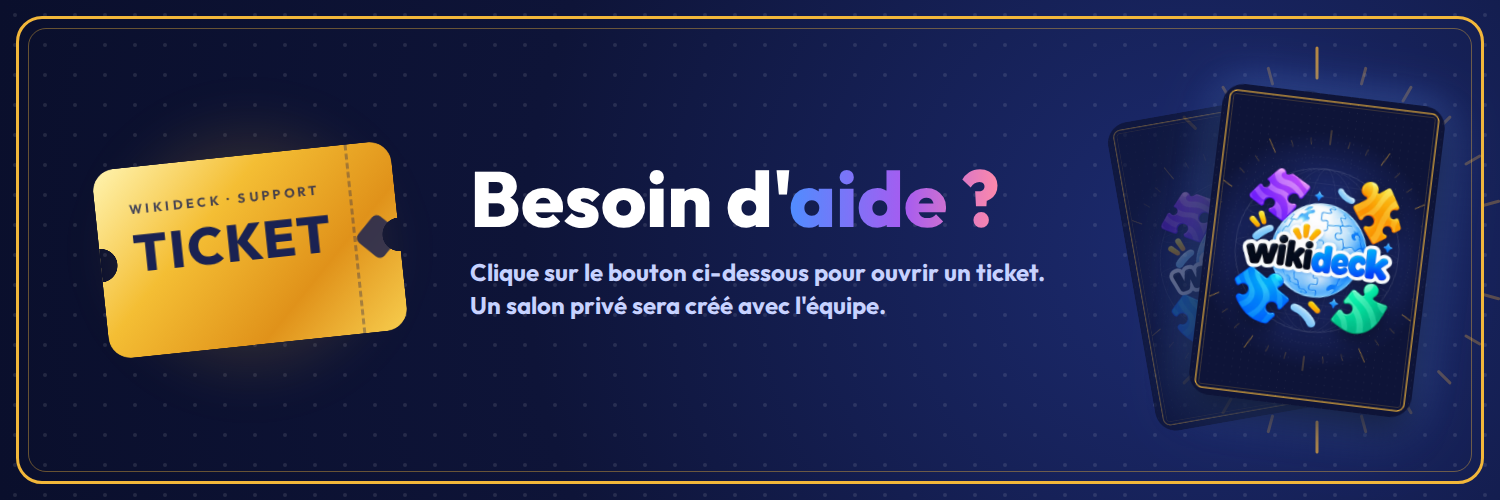
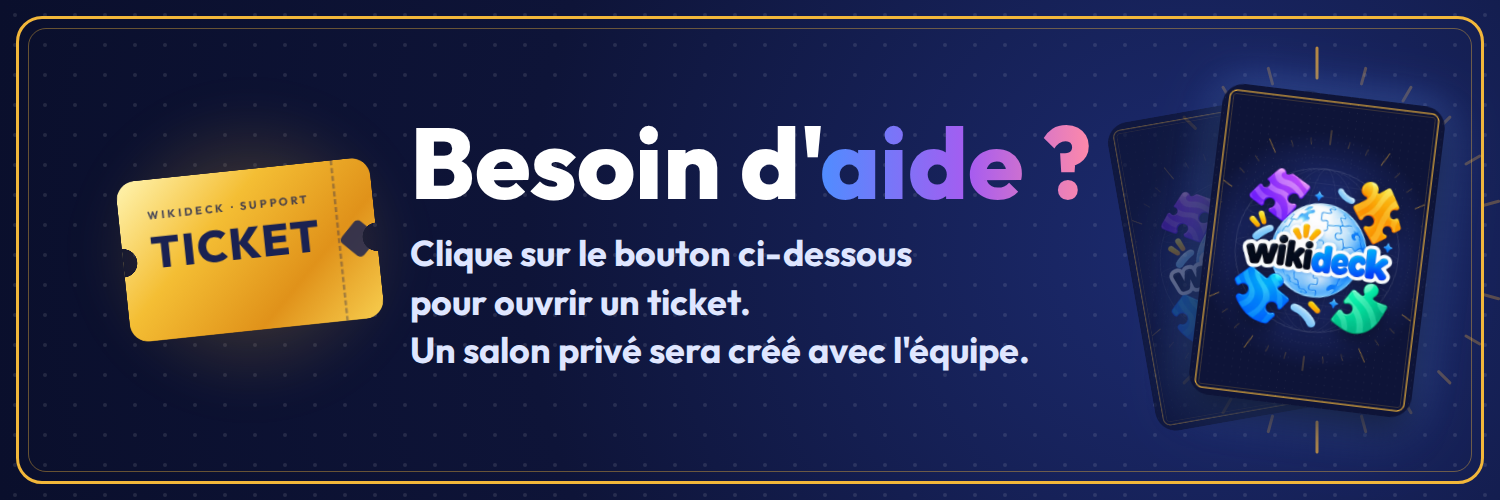
commit to wikideck github

Changed region(s): [[0.0613, 0.24, 0.736, 0.72], [0.276, 0.66, 0.7053, 0.75]]

diff --git a/Source/Helper/ticket.js b/Source/Helper/ticket.js
@@ -1,4 +1,6 @@
 const path = require('node:path');
+const db = require('./database.js');
+const { t } = require('./i18n.js');
 const {
 	ActionRowBuilder,
 	AttachmentBuilder,
@@ -10,16 +12,17 @@ const {
 	PermissionFlagsBits,
 } = require('discord.js');
 
-// Les customId sont préfixés par "ticket:" pour que l'event sache quelles interactions le concernent
+
 const TICKET_OPEN_ID = 'ticket:open';
 const TICKET_CLOSE_ID = 'ticket:close';
 const TICKET_REPORT_ID = 'ticket:report';
+let TICKET_NUMBER_ID = db.prepare('SELECT * FROM ticket ORDER BY id DESC LIMIT 1').get()?.id ?? 0;
 const CLOSE_DELAY_MS = 5000;
 const MAX_TRANSCRIPT_MESSAGES = 1000;
 const TICKET_BANNER_PATH = path.join(__dirname, '..', 'Assets', 'ticket-banner.png');
 
 function buildPanel() {
-	// Discord ne peut pas lire un chemin local : on joint le fichier et on le référence via attachment://
+
 	const banner = new AttachmentBuilder(TICKET_BANNER_PATH, { name: 'ticket-banner.png' });
 	const embed = new EmbedBuilder()
 		.setColor(0x5865F2)
@@ -31,37 +34,43 @@ function buildPanel() {
 	return { embeds: [embed], components: [row], files: [banner] };
 }
 
-// Le topic du salon stocke le type et l'ID du créateur : il sert à retrouver le propriétaire sans base de données
+
 function ticketTopic(kind, userId) {
 	return `ticket:${kind}:${userId}`;
 }
 
-// Extrait { kind, userId } d'un topic de salon, ou null si ce n'est pas un salon de ticket
+function getLocale(userId) {
+	const user = db.prepare('SELECT * FROM User WHERE user_id = ?').get(userId);
+	return user?.locale ?? 'fr';
+}
+
+
 function parseTicketTopic(topic) {
 	const match = /^ticket:(open|report):(\d+)$/.exec(topic ?? '');
 	if (!match) return null;
 	return { kind: match[1], userId: match[2] };
 }
 
-// Config commune à "Ouvrir un ticket" et "Rapporter un Bug" : seuls la catégorie, le préfixe et le message changent
+
 const TICKET_KINDS = {
 	open: {
 		envVar: 'TICKET_CATEGORY_ID',
 		namePrefix: 'ticket',
-		description: 'Décris ton problème, l\'équipe te répondra bientôt.',
+		descriptionKey: 'ticket.openedDescription',
 	},
 	report: {
 		envVar: 'TICKET_REPORT_CATEGORY_ID',
 		namePrefix: 'report',
-		description: 'Décris le bug rencontré (étapes, capture d\'écran...), l\'équipe y jettera un oeil bientôt.',
+		descriptionKey: 'ticket.reportedDescription',
 	},
 };
 
 async function createTicket(interaction, kind) {
 	await interaction.deferReply({ flags: MessageFlags.Ephemeral });
 
-	const { envVar, namePrefix, description } = TICKET_KINDS[kind];
+	const { envVar, namePrefix, descriptionKey } = TICKET_KINDS[kind];
 	const { guild, user } = interaction;
+	const locale = getLocale(user.id);
 	const categoryId = process.env[envVar];
 	if (!categoryId) {
 		await interaction.editReply(`${envVar} n'est pas défini dans le fichier .env.`);
@@ -70,12 +79,12 @@ async function createTicket(interaction, kind) {
 
 	const existing = guild.channels.cache.find((c) => c.parentId === categoryId && c.topic === ticketTopic(kind, user.id));
 	if (existing) {
-		await interaction.editReply(`Tu as déjà un ticket ouvert : ${existing}`);
+		await interaction.editReply(t('ticket.alreadyOpen', locale, { channel: existing }));
 		return;
 	}
 
 	const channel = await guild.channels.create({
-		name: `${namePrefix}-${user.username}`,
+		name: `${namePrefix}-${user.username}-${TICKET_NUMBER_ID++}`,
 		type: ChannelType.GuildText,
 		parent: categoryId,
 		topic: ticketTopic(kind, user.id),
@@ -93,15 +102,16 @@ async function createTicket(interaction, kind) {
 	});
 
 	const row = new ActionRowBuilder().addComponents(
-		new ButtonBuilder().setCustomId(TICKET_CLOSE_ID).setLabel('Fermer le ticket').setEmoji('🔒').setStyle(ButtonStyle.Danger),
+		new ButtonBuilder().setCustomId(TICKET_CLOSE_ID).setLabel(t('ticket.close', locale)).setEmoji('🔒').setStyle(ButtonStyle.Danger),
 	);
 	await channel.send({
 		content: `${user}`,
-		embeds: [new EmbedBuilder().setColor(0x5865F2).setDescription(description)],
+		embeds: [new EmbedBuilder().setColor(0x5865F2).setDescription(t(descriptionKey, locale))],
 		components: [row],
 	});
 
-	await interaction.editReply(`Ton ticket a été créé : ${channel}`);
+	await interaction.editReply(t('ticket.created', locale, { channel }));
+	db.prepare('INSERT INTO ticket (name, kind, user_id) VALUES (?, ?, ?)').run(channel.name, kind, user.id);
 }
 
 async function openTicket(interaction) {
@@ -136,7 +146,7 @@ async function closeTicket(interaction) {
 	const isOwner = parseTicketTopic(channel.topic)?.userId === user.id;
 	const isStaff = memberPermissions.has(PermissionFlagsBits.ManageChannels);
 	if (!isOwner && !isStaff) {
-		await interaction.reply({ content: 'Tu ne peux pas fermer ce ticket.', flags: MessageFlags.Ephemeral });
+		await interaction.reply({ content: t('ticket.cannotClose', getLocale(user.id)), flags: MessageFlags.Ephemeral });
 		return;
 	}
 
@@ -151,11 +161,12 @@ async function closeTicket(interaction) {
 			await transcriptChannel.send({ content: `Transcript de **${channel.name}** (fermé par ${user.tag})`, files: [file] });
 		}
 	}
-
+	
 	await interaction.editReply(`Ticket fermé, ce salon sera supprimé dans ${CLOSE_DELAY_MS / 1000} secondes.`);
 	setTimeout(() => {
 		channel.delete('Ticket fermé').catch((error) => console.error('[ERROR] Suppression du ticket impossible :', error));
 	}, CLOSE_DELAY_MS);
+	db.prepare('UPDATE ticket SET isClosed = TRUE WHERE name = ?').run(channel.name);
 }
 
 module.exports = { TICKET_OPEN_ID, TICKET_CLOSE_ID, TICKET_REPORT_ID, buildPanel, openTicket, reportTicket, closeTicket };

diff --git a/index.js b/index.js
@@ -1,18 +1,14 @@
-// Require the necessary discord.js classes
+
 const fs = require('node:fs');
 const path = require('node:path');
 const { Client, Events, GatewayIntentBits, Collection, MessageFlags } = require('discord.js');
 const { DISCORD_TOKEN: token } = require('dotenv').config().parsed;
 const { getCommandFiles } = require('./Source/Helper/loadCommands');
 
-// Create a new client instance
-// GuildMembers est nécessaire pour recevoir l'évènement GuildMemberAdd (message de bienvenue).
-// Pensez à activer l'intent privilégié "Server Members Intent" sur le portail développeur Discord.
+
 const client = new Client({ intents: [GatewayIntentBits.Guilds, GatewayIntentBits.GuildMembers] });
 
-// When the client is ready, run this code (only once).
-// The distinction between `client: Client<boolean>` and `readyClient: Client<true>` is important for TypeScript developers.
-// It makes some properties non-nullable.
+
 client.once(Events.ClientReady, (readyClient) => {
 	console.log(`Ready! Logged in as ${readyClient.user.tag}`);
     client.commands = new Collection(); 
@@ -52,9 +48,7 @@ client.on(Events.InteractionCreate, async (interaction) => {
 		await command.execute(interaction);
 	} catch (error) {
 		console.error(error);
-		// Cette réponse de secours peut elle-même échouer (ex: interaction expirée).
-		// On l'isole dans son propre try/catch pour ne jamais laisser une erreur
-		// Discord non gérée remonter et planter tout le bot.
+
 		try {
 			if (interaction.replied || interaction.deferred) {
 				await interaction.followUp({
@@ -73,7 +67,7 @@ client.on(Events.InteractionCreate, async (interaction) => {
 	}
 });
 
-// Filets de sécurité globaux : logguer au lieu de laisser le process planter silencieusement.
+// sécurité globale
 client.on(Events.Error, (error) => {
 	console.error('[ERROR] Erreur du client Discord :', error);
 });
@@ -81,6 +75,6 @@ process.on('unhandledRejection', (reason) => {
 	console.error('[ERROR] Promesse rejetée non gérée :', reason);
 });
 
-// Log in to Discord with your client's token
+
 
 client.login(token);

diff --git a/deploy-command.js b/deploy-command.js
@@ -1,4 +1,4 @@
-// envoi des commandes slash au serveur Discord 
+// envoi des commandes slash au serveur Discord pour éviter de relancer le bot
 
 const { REST, Routes } = require('discord.js');
 const { CLIENT_ID: clientId, GUILD_ID: guildId, DISCORD_TOKEN: token } = require('dotenv').config().parsed;
@@ -6,10 +6,8 @@ const path = require('node:path');
 const { getCommandFiles } = require('./Source/Helper/loadCommands');
 
 const commands = [];
-// Grab all the command files from the commands directory (et ses sous-dossiers)
 const commandsPath = path.join(__dirname, 'Source', 'commands');
 const commandFiles = getCommandFiles(commandsPath);
-// Grab the SlashCommandBuilder#toJSON() output of each command's data for deployment
 for (const filePath of commandFiles) {
 	const command = require(filePath);
 	if ('data' in command && 'execute' in command) {
@@ -19,20 +17,16 @@ for (const filePath of commandFiles) {
 	}
 }
 
-// Construct and prepare an instance of the REST module
 const rest = new REST().setToken(token);
 
-// and deploy your commands!
 (async () => {
 	try {
 		console.log(`Started refreshing ${commands.length} application (/) commands.`);
 
-		// The put method is used to fully refresh all commands in the guild with the current set
 		const data = await rest.put(Routes.applicationGuildCommands(clientId, guildId), { body: commands });
 
 		console.log(`Successfully reloaded ${data.length} application (/) commands.`);
 	} catch (error) {
-		// And of course, make sure you catch and log any errors!
 		console.error(error);
 	}
 })();

diff --git a/Source/commands/utility/setLocale.js b/Source/commands/utility/setLocale.js
@@ -1,0 +1,34 @@
+const { SlashCommandBuilder, PermissionFlagsBits, MessageFlags } = require('discord.js');
+const db = require('../../Helper/database.js');
+const { t } = require('../../Helper/i18n.js');
+
+module.exports = {
+    data: new SlashCommandBuilder()
+        .setName('setlanguage')
+        .setNameLocalization('fr', 'definirlangue')
+        .setDescription('Set your preferred language')
+        .setDescriptionLocalization('fr', 'Définir votre langue préférée')
+        .addStringOption(option =>
+            option.setName('language')
+                .setNameLocalization('fr', 'langue')
+                .setDescription('The language to set')
+                .setDescriptionLocalization('fr', 'La langue à définir')
+                .setRequired(true)
+                .addChoices(
+                    { name: 'English', value: 'en' },
+                    { name: 'French', value: 'fr' }
+                )
+        ),
+    async execute(interaction) {
+        const locale = interaction.options.getString('language');
+        const userId = interaction.user.id;
+
+        if (db.prepare('SELECT 1 FROM User WHERE user_id = ?').get(userId)) {
+            db.prepare('UPDATE User SET locale = ? WHERE user_id = ?').run(locale, userId);
+        } else {
+            db.prepare('INSERT INTO User (user_id, locale, username) VALUES (?, ?, ?)').run(userId, locale, interaction.user.username);
+        }
+
+        await interaction.reply({ content: t('language.set', locale, { locale }), flags: MessageFlags.Ephemeral });
+    },
+};

diff --git a/Source/commands/utility/ticketPannel.js b/Source/commands/utility/ticketPannel.js
@@ -5,11 +5,9 @@ module.exports = {
     data: new SlashCommandBuilder()
         .setName('ticketpannel')
         .setDescription('Envoi le panneau de tickets.')
-        // Masque la commande aux non-admins dans Discord (modifiable ensuite dans Paramètres > Intégrations)
         .setDefaultMemberPermissions(PermissionFlagsBits.Administrator)
-        .setContexts(0), // 0 = serveur uniquement (pas en MP)
+        .setContexts(0), 
     async execute(interaction) {
-        // Vérification côté code : les permissions Discord peuvent être modifiées par les admins du serveur
         if (!interaction.memberPermissions?.has(PermissionFlagsBits.Administrator)) {
             await interaction.reply({ content: 'Cette commande est réservée aux administrateurs.', flags: MessageFlags.Ephemeral });
             return;

diff --git a/Source/Helper/i18n.js b/Source/Helper/i18n.js
@@ -1,0 +1,27 @@
+const fr = require('../Lang/fr.json');
+const en = require('../Lang/en.json');
+
+const locales = { fr, en };
+const DEFAULT_LOCALE = 'fr';
+
+/**
+ * Traduit une clé dans la langue demandée, avec remplacement de variables {nom}.
+ * @param {string} key  text key
+ * @param {string} [locale]  lang code
+ * @param {Record<string, string>} [vars] var a injecter dans le texte
+ * @returns {string} texte traduit ou la clé si on oublie
+ */
+function t(key, locale = DEFAULT_LOCALE, vars = {}) {
+	const dict = locales[locale] ?? locales[DEFAULT_LOCALE];
+
+
+	let text = dict[key] ?? locales[DEFAULT_LOCALE][key] ?? key;
+
+	for (const [name, value] of Object.entries(vars)) {
+		text = text.replaceAll(`{${name}}`, value);
+	}
+
+	return text;
+}
+
+module.exports = { t };

diff --git a/Source/events/ticketInteraction.js b/Source/events/ticketInteraction.js
@@ -1,7 +1,6 @@
 const { Events, MessageFlags } = require('discord.js');
 const { TICKET_OPEN_ID, TICKET_CLOSE_ID, TICKET_REPORT_ID, openTicket, reportTicket, closeTicket } = require('../Helper/ticket');
 
-// Reçoit les clics sur les boutons du système de tickets. Les slash commands restent gérées dans index.js.
 module.exports = {
 	name: Events.InteractionCreate,
 	once: false,

diff --git a/Source/Helper/loadCommands.js b/Source/Helper/loadCommands.js
@@ -1,10 +1,6 @@
 const fs = require('node:fs');
 const path = require('node:path');
 
-/**
-* Force le chargement de toutes les commandes (utilisé uniquement en phase de test pour index et deploy-command)
-* 
- */
 function getCommandFiles(dir) {
 	let files = [];
 	for (const entry of fs.readdirSync(dir, { withFileTypes: true })) {

diff --git a/Source/Helper/welcomeChannel.js b/Source/Helper/welcomeChannel.js
@@ -1,7 +1,4 @@
-/**
- * Récupère le salon de bienvenue (WELCOME_CHANNEL_ID) pour une guilde donnée.
- * Retourne null si l'ID n'est pas défini ou si le salon est introuvable/non textuel.
- */
+
 async function getWelcomeChannel(guild) {
 	const channelId = process.env.WELCOME_CHANNEL_ID;
 	if (!channelId) {

diff --git a/Source/Api/staffalerts.js b/Source/Api/staffalerts.js
@@ -1,0 +1,6 @@
+const { SlashCommandBuilder, PermissionFlagsBits, MessageFlags } = require('discord.js');
+const db = require('../../Helper/database.js');
+
+
+
+ 
